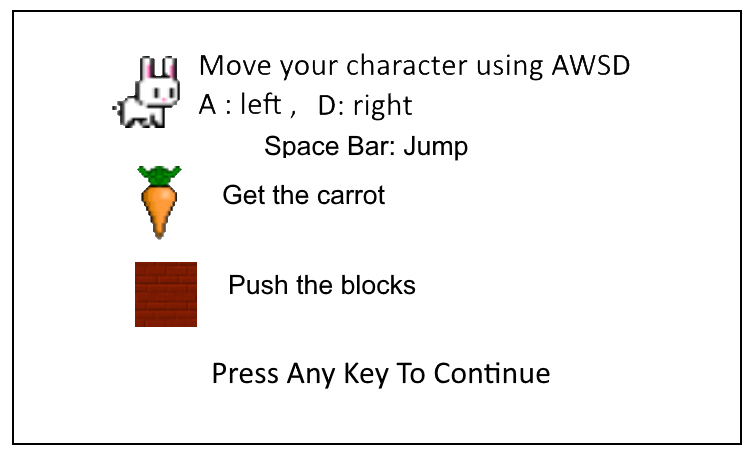
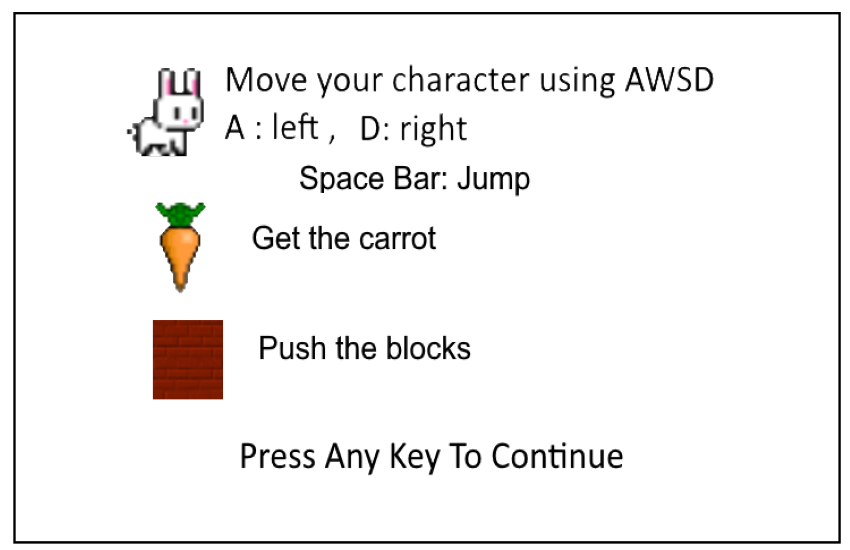
nin2 submit

diff --git a/src/game/nin/NinScene.java b/src/game/nin/NinScene.java
@@ -30,6 +30,7 @@ public class NinScene  extends GameWorldScene{
 	private ResetButton myResetButton;
 	private SaveButton mySaveButton;
     public UISprite myFiledSavedMessage;
+    public UISprite myIntroMessage;
 	
 	public static String PLAYER = "playerCharacter";
 	public static String ENEMY = "enemyCharacter";
@@ -61,6 +62,7 @@ public class NinScene  extends GameWorldScene{
     int currentSeconds =0;
     
     boolean showing;
+    boolean showIntro = true;
     
     boolean loadingFromFile;
 	String levelFileName;
@@ -70,6 +72,7 @@ public class NinScene  extends GameWorldScene{
 		if(!loadFile.isEmpty())
 		{
 			levelFileName = loadFile;
+			showIntro = false;
 			loadingFromFile = true;
 		}
 	}
@@ -82,10 +85,13 @@ public class NinScene  extends GameWorldScene{
 		mySaveButton =  new SaveButton("img/save.png", this,750, 120);
 	//	myFiledSavedMessage =  new UISprite("img/filesaved.png",350, 190);
 		myFiledSavedMessage =  new UISprite("img/filesaved.png",1000, 1000);
-		
+		myIntroMessage = new UISprite("img/introNinInfo.png",250, 100);
+				
 		addProp(myResetButton);
 		addProp(mySaveButton);
 		addProp(myFiledSavedMessage);
+		addProp(myIntroMessage);
+		
 		 // Initialize game world
 		super.initScene();
 		
@@ -147,6 +153,7 @@ public class NinScene  extends GameWorldScene{
 			  isShowing = false;
 		  }
 	  }
+	  
 	  super.onTick(nanosSincePreviousTick);	
 	}
 	
@@ -172,5 +179,19 @@ public class NinScene  extends GameWorldScene{
 		((TransformComponent)carrot.getComponent(ComponentContants.transform)).setPosition(ninCarrotInitPos);
 	}
 	
+	@Override
+	public void onKeyTyped(KeyEvent e) {
+		// TODO Auto-generated method stub
+		if(showIntro)
+		{
+			myIntroMessage.setPosition(new Vec2d(1500, 1000));
+			showIntro = false;	
+		}
+		
+		super.onKeyTyped(e);
+		
+		
+		
+	}
 	
 }
